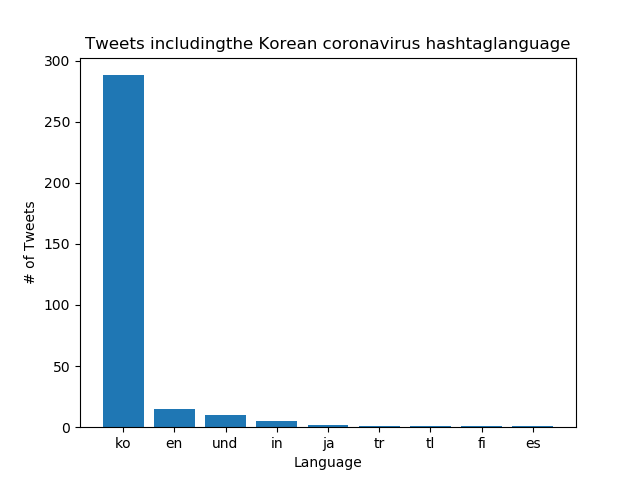
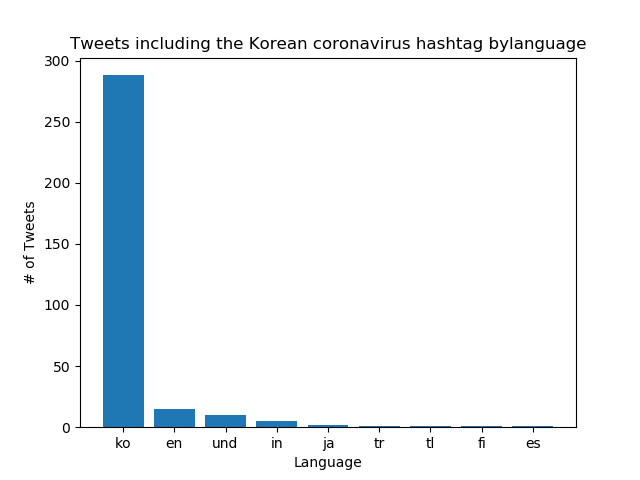
attempt 6

Changed region(s): [[0.0938, 0.0625, 0.9062, 0.125]]

diff --git a/src/visualize.py b/src/visualize.py
@@ -44,9 +44,9 @@ plt.ylabel('# of Tweets')
 plt.xticks(ind, keys)
 title = 'Tweets including'
 if "coronavirus" in args.key:
-    title += f'{args.key} by'
+    title += f' {args.key} by'
 else:
-    title += "the Korean coronavirus hashtag"
+    title += " the Korean coronavirus hashtag by"
 if "country" in args.input_path:
     title += ' country'
     axis = 'Country'
